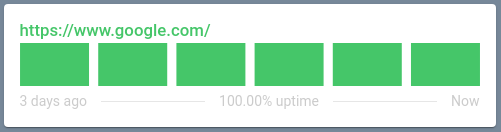
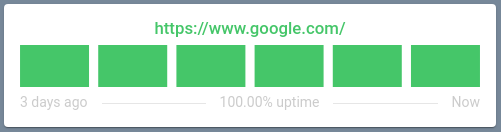
Refactor examples

diff --git a/README.md b/README.md
@@ -38,8 +38,8 @@ Uptime card is highly customizable.
 
 ### Global config
 
-| Name | Type | Default | Since | Description |
-|------|:----:|:-------:|:-----:|-------------|
+| Name | Type / Options | Default | Since | Description |
+|------|:--------------:|:-------:|:-----:|-------------|
 | entity (**required**) | string |  | v0.0.1 | Specify entity ID of the sensor
 | ok | string |  | v0.0.1 | Specify the `on` state for the entity, either `ok` or `ko` should be set if entity isn't a binary sensor. **[More info](https://github.com/dylandoamaral/uptime-card#ok-and-ko-options)**.
 | ko | string |  | v0.0.1 | Specify the `off` state for the entity, either `ok` or `ko` should be set if entity isn't a binary sensor. **[More info](https://github.com/dylandoamaral/uptime-card#ok-and-ko-options)**.
@@ -51,17 +51,17 @@ Uptime card is highly customizable.
 | average_text | string | `%`| v0.0.2 | Set the average text to be displayed at the bottom.
 | severity | number | `100` | v0.0.1 | Set a threshold in percentage to specify when a bar both ok and ko is red instead of yellow.
 | status_template | string | `[[ current ]]` | v0.1.0 | Set the template for the status. **[More info](https://github.com/dylandoamaral/uptime-card#templating)**.
-| title_adaptive_color | boolean | `false` | v0.0.2 | Make the title color adapt with the entity color.
-| status_adaptive_color | boolean | `false` | v0.0.2 | Make the name color adapt with the entity color.
-| icon_adaptive_color | boolean | `false` | v0.0.2 | Make the name color adapt with the entity color.
-| tooltip_adaptive_color | boolean | `false` | v0.1.0 | Make the name color adapt with the entity color.
+| title_adaptive_color | `true`/`false` | `false` | v0.0.2 | Make the title color adapt with the entity color.
+| status_adaptive_color | `true`/`false` | `false` | v0.0.2 | Make the name color adapt with the entity color.
+| icon_adaptive_color | `true`/`false` | `false` | v0.0.2 | Make the name color adapt with the entity color.
+| tooltip_adaptive_color | `true`/`false` | `false` | v0.1.0 | Make the name color adapt with the entity color.
 
 ### Bar config
 
 **Parent key:** `bar`
 
-| Name | Type | Default | Since | Description |
-|------|:----:|:-------:|:-----:|-------------|
+| Name | Type / Options | Default | Since | Description |
+|------|:--------------:|:-------:|:-----:|-------------|
 | height | number | `46` | v0.0.1 | Set the height of the bars.
 | round | number | `1` | v0.0.1 | Set the round radius for the bars.
 | spacing | number | `4` | v0.0.1 | Set the spacing between the bars.
@@ -71,8 +71,8 @@ Uptime card is highly customizable.
 
 **Parent key:** `color`
 
-| Name | Type | Default | Since | Description |
-|------|:----:|:-------:|:-----:|-------------|
+| Name | Type / Options | Default | Since | Description |
+|------|:--------------:|:-------:|:-----:|-------------|
 | ok | color | ![ ](https://dummyimage.com/20x10/45c669&amp;text=+) `#45C669` | v0.0.1 | Set the `ok` color.
 | ko | color | ![ ](https://dummyimage.com/20x10/c66445&amp;text=+) `#C66445` | v0.0.1 | Set the `ko` color.
 | half | color | ![ ](https://dummyimage.com/20x10/c6b145&amp;text=+) `#C6B145` | v0.0.1 | Set the `half` color.
@@ -86,22 +86,22 @@ Uptime card is highly customizable.
 
 **Parent key:** `show`
 
-| Name | Default | Options | Since | Description |
-|------:|:------:|:-----:|:------:|:-------------|
-| header | `true` | `true`/`false` | v0.0.1 | Show/hide the header.
-| title | `true` | `true`/`false` | v0.1.0 | Show/hide the title.
-| icon | `true` | `true`/`false` | v0.0.1 | Show/hide the icon.
-| status | `true` | `true`/`false` | v0.0.1 | Show/hide the status.
-| timeline | `true` | `true`/`false` | v0.0.1 | Show/hide the timeline.
-| average | `true` | `true`/`false` | v0.0.2 | Show/hide the average.
-| footer | `true` | `true`/`false` | v0.0.1 | Show/hide the footer.
+| Name | Type / Options | Default | Since | Description |
+|------|:--------------:|:-------:|:-----:|-------------|
+| header | `true`/`false` | `true` | v0.0.1 | Show/hide the header.
+| title | `true`/`false` | `true` | v0.1.0 | Show/hide the title.
+| icon | `true`/`false` | `true` | v0.0.1 | Show/hide the icon.
+| status | `true`/`false` | `true` | v0.0.1 | Show/hide the status.
+| timeline | `true`/`false` | `true` | v0.0.1 | Show/hide the timeline.
+| average | `true`/`false` | `true` | v0.0.2 | Show/hide the average.
+| footer | `true`/`false` | `true` | v0.0.1 | Show/hide the footer.
 
 ### Alias config
 
 **Parent key:** `alias`
 
-| Name | Type | Default | Since | Description |
-|------|:----:|:-------:|:-----:|-------------|
+| Name | Type / Options | Default | Since | Description |
+|------|:--------------:|:-------:|:-----:|-------------|
 | ok | string | | v0.0.1 | Set a friendly name for `ok` state.
 | ko | string | | v0.0.1 | Set a friendly name for `ko` state.
 
@@ -109,11 +109,11 @@ Uptime card is highly customizable.
 
 **Parent key:** `tooltip`
 
-| Name | Type | Default | Since | Description |
-|------|:----:|:-------:|:-----:|-------------|
-| hour24 | boolean | `false` | v0.1.0 | Set to `true` to display time in 24-hour format.
+| Name | Type / Options | Default | Since | Description |
+|------|:--------------:|:-------:|:-----:|-------------|
+| hour24 | `true`/`false` | `false` | v0.1.0 | Set to `true` to display time in 24-hour format.
 | template | string | `[[ from_date ]] - [[ to_date ]] \| [[ average ]]%` | v0.1.0 | Set a template for the tooltip **[More info](https://github.com/dylandoamaral/uptime-card#templating)**.
-| animation | boolean | `true` | v0.1.0 | Set to `true` to show bar animation on hover.
+| animation | `true`/`false` | `true` | v0.1.0 | Set to `true` to show bar animation on hover.
 
 ### Action config
 
@@ -167,22 +167,30 @@ status_adaptive_color: true
 
 ```yaml
 type: 'custom:uptime-card'
-bar:
-  spacing: 4
-  height: 10
-  round: 4
-icon: 'mdi:weather-sunny'
 entity: sun.sun
 name: Sun
+icon: 'mdi:weather-sunny'
+ko_icon: 'mdi:weather-sunny-off'
 ko: below_horizon
+icon_adaptive_color: true
+title_adaptive_color: true
 color:
   ok: '#F9d71C'
   ko: '#053752'
   half: '#EF810E'
-icon_adaptive_color: true
+bar:
+  spacing: 4
+  height: 10
+  round: 4
 show:
   average: false
   status: false
+alignment:
+  status: spaced
+  header: left
+  icon_first: true
+tap_action:
+  action: more-info
 ```
 
 ### Example 3
@@ -193,9 +201,13 @@ show:
 
 ```yaml
 type: 'custom:uptime-card'
-entity: binary_sensor.ping_google 
+entity: binary_sensor.ping_google
 # Home Assistant ping integration - https://www.home-assistant.io/integrations/ping
+name: 'https://www.google.com/'
 icon: 'mdi:heart'
+hours_to_show: 72
+title_adaptive_color: true
+average_text: '% uptime'
 bar:
   height: 46
   round: 0
@@ -204,10 +216,12 @@ bar:
 show:
   status: false
   icon: false
-title_adaptive_color: true
-hours_to_show: 72
-name: 'https://www.google.com/'
-average_text: '% uptime'
+tap_action:
+  action: url
+  url: 'https://www.google.com/'
+alignment:
+  status: spaced
+  header: center
 ```
 
 ## Roadmap 🗺
